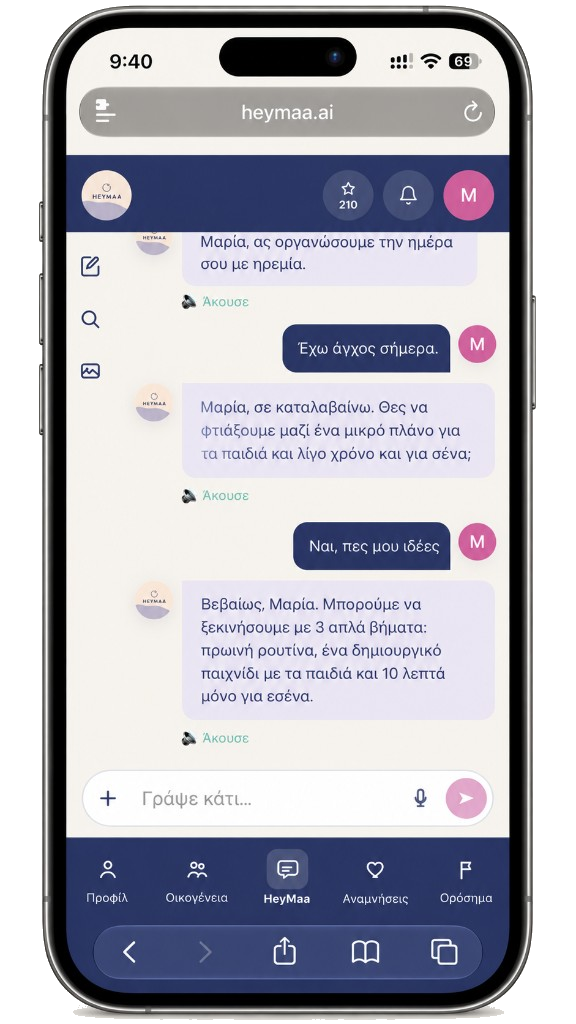
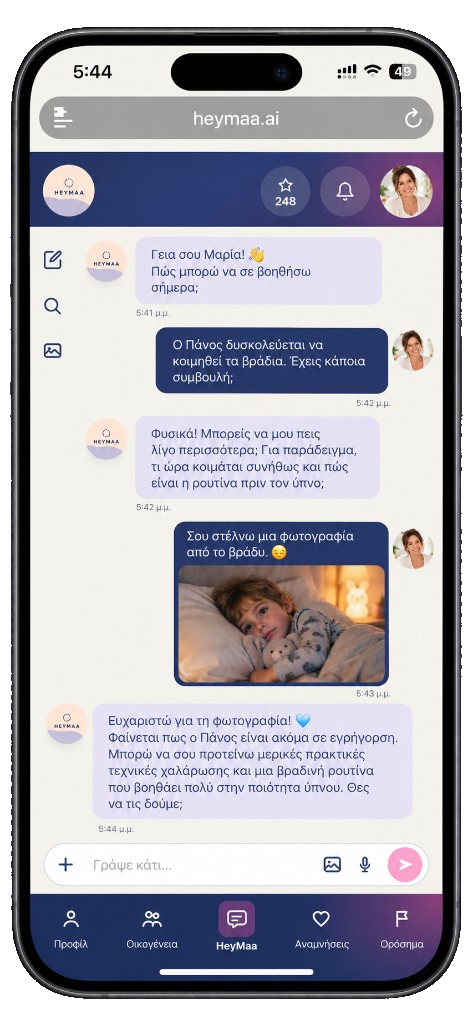
Move the moment photos into Write/Speak/Show and the testimonial, and make the chat showcase magenta with a newer screenshot.

diff --git a/frontend/src/home/home.css b/frontend/src/home/home.css
@@ -247,8 +247,11 @@ body{font-family:var(--font-sans);background:var(--cream);}
 .sec-label{font-size:11px;letter-spacing:.1em;color:rgba(43,58,103,0.38);margin-bottom:6px;}
 .sec-title{font-family:var(--font-sans);font-size:clamp(22px,4vw,32px);font-weight:500;color:var(--navy);margin-bottom:10px;line-height:1.2;}
 .sec-sub{font-size:14px;color:rgba(43,58,103,0.6);line-height:1.65;margin-bottom:24px;}
-.how-grid{display:flex;flex-direction:column;gap:12px;}
-.how-card{background:#fff;border-radius:16px;padding:18px 20px;border:.5px solid rgba(43,58,103,0.08);display:flex;align-items:flex-start;gap:14px;}
+.how-grid{display:grid;grid-template-columns:repeat(3,minmax(0,1fr));gap:14px;}
+.how-card{background:#fff;border-radius:18px;padding:0;border:none;box-shadow:0 10px 28px rgba(43,58,103,0.08);display:flex;flex-direction:column;overflow:hidden;min-width:0;}
+.how-photo{margin:0;}
+.how-photo img{display:block;width:100%;aspect-ratio:4 / 3;object-fit:cover;}
+.how-card-body{display:flex;align-items:flex-start;gap:12px;padding:16px 16px 18px;}
 .how-icon{width:40px;height:40px;border-radius:11px;display:flex;align-items:center;justify-content:center;font-size:18px;flex-shrink:0;}
 .how-copy{min-width:0;}
 .how-title{font-size:15px;font-weight:600;color:var(--navy);margin-bottom:4px;line-height:1.3;}
@@ -265,9 +268,12 @@ body{font-family:var(--font-sans);background:var(--cream);}
   overflow:hidden;
   border-radius:24px;
   padding:clamp(20px,3vw,32px) clamp(18px,3vw,32px) clamp(18px,2.5vw,28px);
-  background-color:var(--navy);
-  background-image:var(--navy-blend);
-  box-shadow:0 18px 40px rgba(43,58,103,0.18);
+  background-color:#de5a9e;
+  background-image:
+    radial-gradient(85% 90% at 100% 0%,rgba(255,214,236,0.42) 0%,transparent 58%),
+    radial-gradient(70% 85% at 0% 100%,rgba(43,58,103,0.22) 0%,transparent 62%),
+    linear-gradient(145deg,#c44786 0%,#de5a9e 42%,#e56aa8 100%);
+  box-shadow:0 18px 40px rgba(222,90,158,0.28);
 }
 .inside-featured-copy{min-width:0;padding:4px 0;position:relative;z-index:1;}
 .inside-featured-copy .inside-card-title{
@@ -280,37 +286,6 @@ body{font-family:var(--font-sans);background:var(--cream);}
   font-size:15px;
   line-height:1.65;
   color:rgba(255,255,255,0.78);
-}
-.inside-featured-modes{
-  list-style:none;
-  margin:16px 0 0;
-  padding:0;
-  display:flex;
-  flex-wrap:wrap;
-  gap:8px;
-}
-.inside-featured-mode{
-  display:inline-flex;
-  align-items:center;
-  gap:7px;
-  padding:6px 12px 6px 6px;
-  border-radius:999px;
-  background:rgba(255,255,255,0.12);
-  border:1px solid rgba(255,255,255,0.16);
-  color:#fff;
-  font-size:13px;
-  font-weight:600;
-  line-height:1;
-}
-.inside-featured-mode-icon{
-  width:26px;
-  height:26px;
-  border-radius:8px;
-  display:flex;
-  align-items:center;
-  justify-content:center;
-  font-size:13px;
-  flex-shrink:0;
 }
 .inside-featured .inside-phone{
   width:min(100%,248px);
@@ -408,6 +383,13 @@ body{font-family:var(--font-sans);background:var(--cream);}
 }
 .safety-text{font-size:14px;font-weight:500;color:var(--navy);line-height:1.45;margin:0;}
 @media (max-width:699px){
+  .how-grid{grid-template-columns:1fr;}
+  .how-card{flex-direction:row;align-items:stretch;}
+  .how-photo{width:124px;flex-shrink:0;}
+  .how-photo img{height:100%;aspect-ratio:auto;object-fit:cover;}
+  .how-card-body{padding:14px 14px 14px 12px;}
+  .testimonial-card{grid-template-columns:96px minmax(0,1fr);gap:12px;padding:10px;}
+  .testimonial-copy{padding:4px 4px 4px 0;}
   .inside-featured{
     grid-template-columns:1fr;
     gap:8px;
@@ -415,7 +397,6 @@ body{font-family:var(--font-sans);background:var(--cream);}
     padding:20px 16px 16px;
   }
   .inside-featured-copy{padding:0 0 4px;}
-  .inside-featured-modes{justify-content:center;}
   .inside-featured .inside-phone{width:min(68%,220px);}
   .inside-phone{width:min(100%,210px);}
   .inside-grid,.inside-extras,.safety-grid{grid-template-columns:1fr;}
@@ -425,33 +406,15 @@ body{font-family:var(--font-sans);background:var(--cream);}
   .inside-grid{grid-template-columns:repeat(3,minmax(0,1fr));gap:12px;}
   .inside-phone--card{width:min(100%,150px);}
 }
-.moments-visual{
-  display:grid;
-  grid-template-columns:1fr 1fr;
-  gap:10px;
-  padding:10px;
-  background:#fff;
-  position:relative;
-  border-radius:18px;
-  overflow:hidden;
-  box-shadow:0 12px 32px rgba(43,58,103,0.12);
-  margin-bottom:16px;
-}
-.moments-visual img{
-  display:block;
-  width:100%;
-  height:100%;
-  aspect-ratio:1 / 1;
-  object-fit:cover;
-  border-radius:12px;
-}
 .testimonial-carousel{display:flex;align-items:center;gap:10px;}
 .testimonial-nav{width:44px;height:44px;min-width:44px;min-height:44px;border-radius:50%;border:1.5px solid rgba(43,58,103,0.14);background:#fff;color:var(--navy);display:flex;align-items:center;justify-content:center;cursor:pointer;flex-shrink:0;transition:background .15s,box-shadow .15s;}
 .testimonial-nav:hover{background:rgba(124,92,191,0.08);box-shadow:0 4px 12px rgba(43,58,103,0.08);}
 .testimonial-nav i{font-size:16px;line-height:1;}
-.testimonial-card{margin:0;padding:22px 20px 20px;border-radius:16px;background:rgba(124,92,191,0.08);border:.5px solid rgba(124,92,191,0.12);flex:1;min-width:0;}
-.testimonial-stars{font-size:13px;letter-spacing:1px;color:var(--navy);margin-bottom:12px;}
-.testimonial-quote{font-family:var(--font-sans);font-size:clamp(16px,2.4vw,18px);font-style:italic;color:var(--navy);line-height:1.65;margin-bottom:18px;}
+.testimonial-card{margin:0;padding:12px;border-radius:18px;background:#fff;border:none;box-shadow:0 10px 28px rgba(43,58,103,0.08);flex:1;min-width:0;display:grid;grid-template-columns:132px minmax(0,1fr);gap:16px;align-items:center;}
+.testimonial-photo{width:100%;aspect-ratio:1 / 1;object-fit:cover;border-radius:14px;display:block;}
+.testimonial-copy{min-width:0;padding:6px 8px 6px 0;}
+.testimonial-stars{font-size:13px;letter-spacing:1px;color:var(--navy);margin-bottom:10px;}
+.testimonial-quote{font-family:var(--font-sans);font-size:clamp(15px,2.2vw,17px);font-style:italic;color:var(--navy);line-height:1.65;margin-bottom:14px;}
 .testimonial-author{display:flex;align-items:center;gap:12px;}
 .testimonial-avatar{width:36px;height:36px;border-radius:50%;background:var(--navy);color:#fff;display:flex;align-items:center;justify-content:center;font-size:15px;font-weight:600;flex-shrink:0;}
 .testimonial-meta{display:flex;flex-direction:column;gap:2px;min-width:0;}
@@ -751,7 +714,8 @@ button.plan-radio:focus-visible{outline:2px solid rgba(42,42,90,0.45);outline-of
   .hero{padding:20px 16px;}
   .hero h1{font-size:clamp(22px,6vw,32px);}
   .testimonial-carousel{flex-wrap:wrap;justify-content:center;}
-  .testimonial-card{padding:16px 14px 14px;flex:1 1 100%;}
+  .testimonial-card{grid-template-columns:1fr;padding:10px;flex:1 1 100%;}
+  .testimonial-photo{aspect-ratio:16 / 9;max-height:160px;}
   .pricing-panel-body{padding:14px 12px 16px;}
   .flag-grid{grid-template-columns:repeat(3,1fr);}
 }
@@ -771,7 +735,6 @@ button.plan-radio:focus-visible{outline:2px solid rgba(42,42,90,0.45);outline-of
     padding-right:max(var(--landing-pad-x), env(safe-area-inset-right, 0px));
   }
   .what-is-media,
-  .moments-visual,
   .how-grid,
   .inside-featured,
   .inside-grid,

diff --git a/frontend/src/home/Home.tsx b/frontend/src/home/Home.tsx
@@ -64,6 +64,12 @@ const INSIDE_IMAGES: Record<string, string> = {
   milestones: phoneMilestones,
 };
 
+const HOW_PHOTOS = [
+  { src: momentsExpecting, altKey: "moments.altExpecting" },
+  { src: momentsNight, altKey: "moments.altNight" },
+  { src: momentsPlay, altKey: "moments.altPlay" },
+] as const;
+
 const TABLER_ICONS =
   "https://cdn.jsdelivr.net/npm/@tabler/icons-webfont@latest/tabler-icons.min.css";
 
@@ -384,22 +390,32 @@ export default function Home() {
           <div className="sec-title">{t("how.title")}</div>
           <div className="sec-sub">{t("how.subtitle")}</div>
           <div className="how-grid">
-            {howItems.map((item) => (
+            {howItems.map((item, index) => {
+              const photo = HOW_PHOTOS[index];
+              return (
               <div className="how-card" key={item.title}>
-                <div
-                  className="how-icon"
-                  style={{ background: item.bg, color: item.color }}
-                  aria-hidden="true"
-                >
-                  <i className={`ti ${item.icon}`} />
-                </div>
-                <div className="how-copy">
-                  <div className="how-title">{item.title}</div>
-                  <div className="how-lead">{item.lead}</div>
-                  <div className="how-body">{item.body}</div>
+                {photo ? (
+                  <div className="how-photo">
+                    <img src={photo.src} alt={t(photo.altKey)} />
+                  </div>
+                ) : null}
+                <div className="how-card-body">
+                  <div
+                    className="how-icon"
+                    style={{ background: item.bg, color: item.color }}
+                    aria-hidden="true"
+                  >
+                    <i className={`ti ${item.icon}`} />
+                  </div>
+                  <div className="how-copy">
+                    <div className="how-title">{item.title}</div>
+                    <div className="how-lead">{item.lead}</div>
+                    <div className="how-body">{item.body}</div>
+                  </div>
                 </div>
               </div>
-            ))}
+              );
+            })}
           </div>
         </div>
 
@@ -414,22 +430,6 @@ export default function Home() {
               <div className="inside-featured-copy">
                 <h3 className="inside-card-title">{featuredInside.title}</h3>
                 <p className="inside-card-body">{featuredInside.body}</p>
-                {howItems.length > 0 ? (
-                  <ul className="inside-featured-modes">
-                    {howItems.map((item) => (
-                      <li className="inside-featured-mode" key={item.title}>
-                        <span
-                          className="inside-featured-mode-icon"
-                          style={{ background: item.bg, color: item.color }}
-                          aria-hidden="true"
-                        >
-                          <i className={`ti ${item.icon}`} />
-                        </span>
-                        {item.title}
-                      </li>
-                    ))}
-                  </ul>
-                ) : null}
               </div>
               <div className="inside-phone">
                 <img
@@ -468,12 +468,6 @@ export default function Home() {
         </section>
 
         <div className="section story-section">
-          <div className="moments-visual">
-            <img src={momentsExpecting} alt={t("moments.altExpecting")} />
-            <img src={momentsNight} alt={t("moments.altNight")} />
-            <img src={momentsHolding} alt={t("moments.altHolding")} />
-            <img src={momentsPlay} alt={t("moments.altPlay")} />
-          </div>
           <div className="testimonial-carousel">
             <button
               type="button"
@@ -491,6 +485,12 @@ export default function Home() {
             </button>
             {activeTestimonial ? (
               <blockquote className="testimonial-card">
+                <img
+                  className="testimonial-photo"
+                  src={momentsHolding}
+                  alt={t("moments.altHolding")}
+                />
+                <div className="testimonial-copy">
                 <div
                   className="testimonial-stars"
                   aria-label={t("testimonial.ratingLabel")}
@@ -511,6 +511,7 @@ export default function Home() {
                     </span>
                   </span>
                 </footer>
+                </div>
               </blockquote>
             ) : null}
             <button
